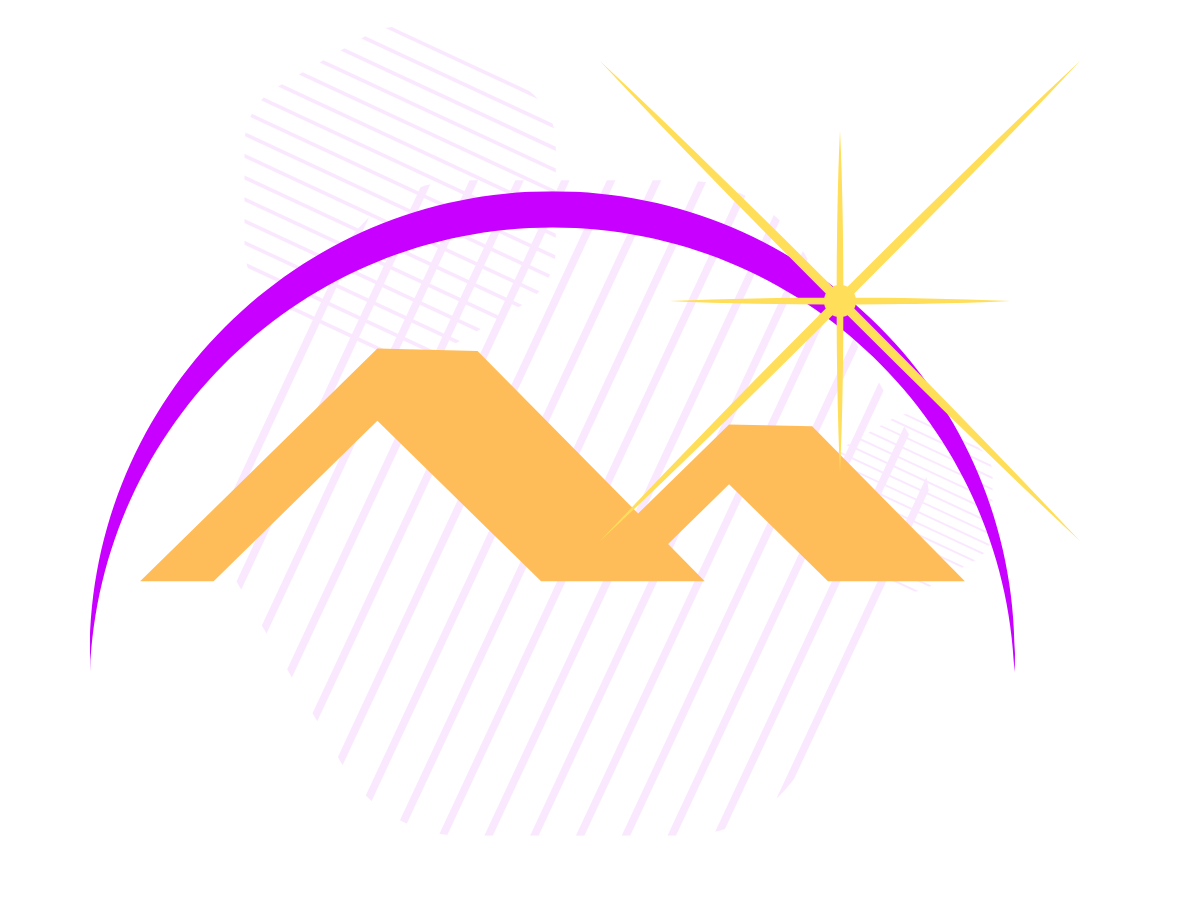
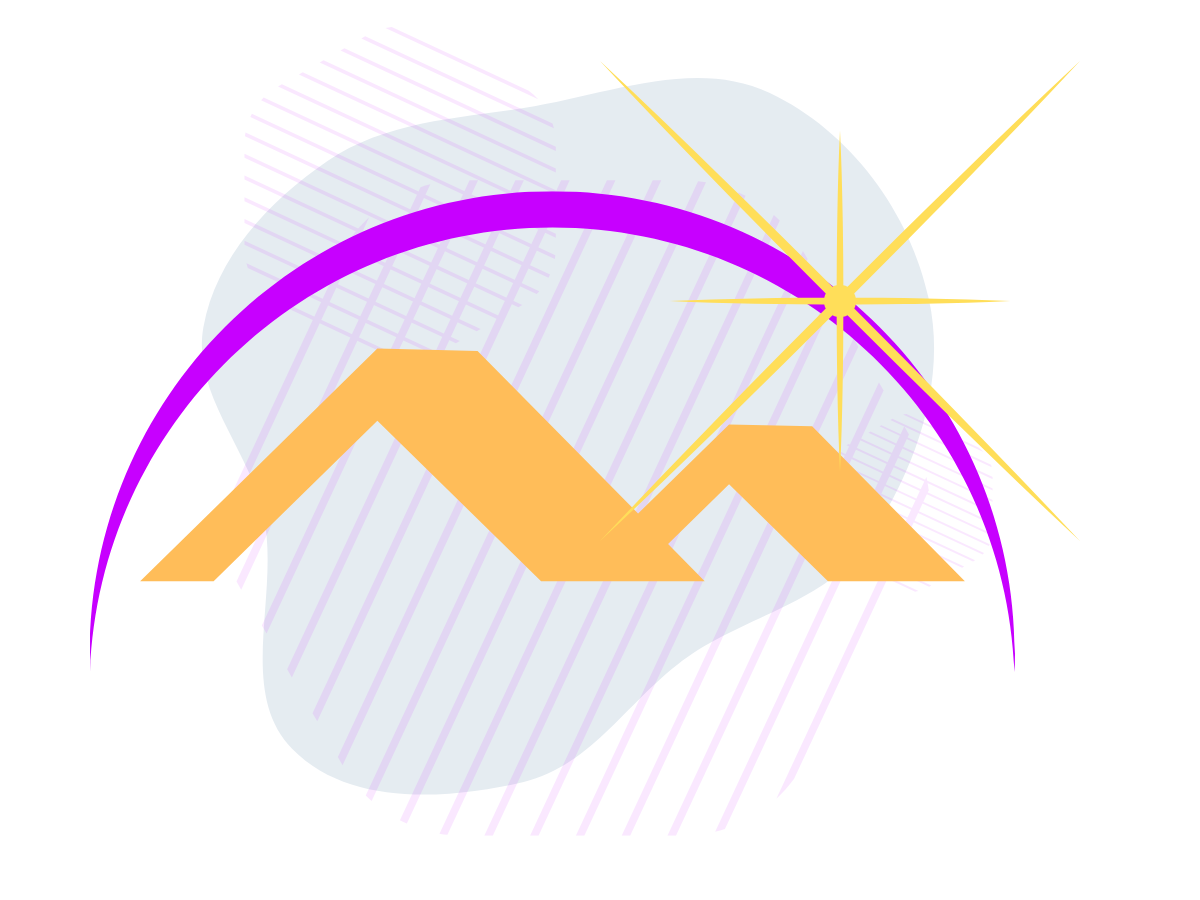
Add background image and new interactive content sections to index view

Changed region(s): [[0.1542, 0.0622, 0.8017, 0.56], [0.2158, 0.4667, 0.7092, 0.9022]]

diff --git a/resources/views/index.blade.php b/resources/views/index.blade.php
@@ -200,13 +200,13 @@
             </div>
         </div>
     </section>
-    <section class="bg-amber-50 dark:bg-amber-800 py-4">
+    <section class="bg-amber-50 dark:bg-amber-800 py-4" style="background-image: url('{{ asset('images/homepage/idrees_banner_transparent.png') }}'); background-size: cover; background-position: left;">
         <div class="w-11/12 lg:w-5/6 mx-auto my-6 md:my-12 px-4 lg:px-0 py-4">
             <h3 class="uppercase tracking-widest font-semibold text-slate-900 dark:text-slate-100">Home Service</h3>
             <h2 class=" text-xl md:text-2xl lg:text-3xl font-medium tracking-wide lg:w-1/2 font-serif my-4 text-gray-800 dark:text-gray-200">Lorem ipsum dolor sit amet consectetur adipisicing elit. Tempore, veritatis!</h2>
             <div class="grid grid-cols-12 gap-4" id="interactive-sections">
-                <div class="col-span-12 md:col-span-3 border flex items-center" id="menu">
-                    <ul class="space-y-2 w-full">
+                <div class="col-span-12 md:col-span-3  flex items-center" id="menu">
+                    <ul class="space-y-6 w-full">
                         <li class="w-full px-6 hover-item roofing-item py-2 font-semibold bg-amber-300 hover:bg-amber-400 transition" data-target="roofing">
                             <a href="#">Roofing</a>
                         </li>
@@ -226,7 +226,7 @@
                 </div>
               
                 <div class="col-span-12 md:col-span-9 relative min-h-96" id="content-area">
-                    <div class="h-full section roofing-section border p-4" style="display: block;">
+                    <div class="h-full section roofing-section  p-4" style="display: block;">
                         <div class="flex flex-col md:flex-row justify-center items-center gap-4  h-full">
                             <p class="w-full md:w-1/3 text-justify text-neutral-950 dark:text-neutral-50">
                               Lorem ipsum dolor sit amet, consectetur adipisicing elit. Praesentium maxime provident nobis unde quas, minima aliquam reprehenderit culpa optio? Quidem officia expedita cupiditate nihil atque? Molestias laboriosam laborum ipsa alias dolor harum eos aliquid cupiditate, officia libero! Molestias, tenetur laborum fugit nemo dolore et iure sunt obcaecati! Suscipit, illum omnis.
@@ -236,7 +236,7 @@
                             </div>
                         </div>
                     </div>
-                    <div class="h-full section flooring-section border p-4 hidden ">
+                    <div class="h-full section flooring-section  p-4 hidden ">
                         <div class="flex flex-col md:flex-row justify-center items-center gap-4  h-full">
                             <p class="w-full md:w-1/3 text-justify text-neutral-950 dark:text-neutral-50">
                               Lorem ipsum dolor sit amet, consectetur adipisicing elit. Praesentium maxime provident nobis unde quas, minima aliquam reprehenderit culpa optio? Quidem officia expedita cupiditate nihil atque? Molestias laboriosam laborum ipsa alias dolor harum eos aliquid cupiditate, officia libero! Molestias, tenetur laborum fugit nemo dolore et iure sunt obcaecati! Suscipit, illum omnis.
@@ -246,7 +246,7 @@
                             </div>
                         </div>
                     </div>
-                    <div class="h-full section hvac-section border p-4 hidden ">
+                    <div class="h-full section hvac-section  p-4 hidden ">
                         <div class="flex flex-col md:flex-row justify-center items-center gap-4  h-full">
                             <p class="w-full md:w-1/3 text-justify text-neutral-950 dark:text-neutral-50">
                               Lorem ipsum dolor sit amet, consectetur adipisicing elit. Praesentium maxime provident nobis unde quas, minima aliquam reprehenderit culpa optio? Quidem officia expedita cupiditate nihil atque? Molestias laboriosam laborum ipsa alias dolor harum eos aliquid cupiditate, officia libero! Molestias, tenetur laborum fugit nemo dolore et iure sunt obcaecati! Suscipit, illum omnis.
@@ -256,7 +256,7 @@
                             </div>
                         </div>
                     </div>
-                    <div class="h-full section plumbing-section border p-4 hidden ">
+                    <div class="h-full section plumbing-section  p-4 hidden ">
                         <div class="flex flex-col md:flex-row justify-center items-center gap-4  h-full">
                             <p class="w-full md:w-1/3 text-justify text-neutral-950 dark:text-neutral-50">
                               Lorem ipsum dolor sit amet, consectetur adipisicing elit. Praesentium maxime provident nobis unde quas, minima aliquam reprehenderit culpa optio? Quidem officia expedita cupiditate nihil atque? Molestias laboriosam laborum ipsa alias dolor harum eos aliquid cupiditate, officia libero! Molestias, tenetur laborum fugit nemo dolore et iure sunt obcaecati! Suscipit, illum omnis.
@@ -266,7 +266,7 @@
                             </div>
                         </div>
                     </div>
-                    <div class="h-full section solar-section border p-4 hidden ">
+                    <div class="h-full section solar-section  p-4 hidden ">
                         <div class="flex flex-col md:flex-row justify-center items-center gap-4  h-full">
                             <p class="w-full md:w-1/3 text-justify text-neutral-950 dark:text-neutral-50">
                               Lorem ipsum dolor sit amet, consectetur adipisicing elit. Praesentium maxime provident nobis unde quas, minima aliquam reprehenderit culpa optio? Quidem officia expedita cupiditate nihil atque? Molestias laboriosam laborum ipsa alias dolor harum eos aliquid cupiditate, officia libero! Molestias, tenetur laborum fugit nemo dolore et iure sunt obcaecati! Suscipit, illum omnis.
@@ -303,7 +303,45 @@
         </div>
 
     </section>
+    <section class="bg-amber-50 dark:bg-amber-800 py-4">
+        <div class="w-11/12 lg:w-5/6 mx-auto my-6 md:my-12 px-4 lg:px-0 py-4 relative">
+            <div class="grid grid-cols-4 md:grid-cols-8 lg:grid-cols-12 gap-4">
+                <div class="col-span-4 rounded shadow-sm hover:-translate-y-2 transition-all duration-300 ease-in-out">
+                    <div class="aspect-[1.67] bg-white">
+                        <img src="{{ asset('images/homepage/1.png') }}" alt="" class="w-full object-cover">
+                    </div>
+                    <div class="h-2 " style="background: linear-gradient(90deg, #6b21a8 0%, #6b21a8 50%, #1d4ed8 50%, #1d4ed8 100%);"></div>
+                    <div class="p-6 space-y-4 h-48 overflow-hidden">
+                        <h3 class="text-lg font-semibold tracking-wider text-slate-600 dark:text-slate-400">Lorem, ipsum dolor.</h3>
+                        <p class="bg-amber-50 dark:bg-amber-800 text-neutral-950 dark:text-neutral-50">Lorem ipsum dolor sit amet consectetur adipisicing elit. Maxime doloribus culpa, aut repellat dolor praesentium odio repellendus est id corporis.</p>
+                    </div>
+                </div>
+                <div class="col-span-4 rounded shadow-sm hover:-translate-y-2 transition-all duration-300 ease-in-out">
+                    <div class="aspect-[1.67] bg-white">
+                        <img src="{{ asset('images/homepage/2.png') }}" alt="" class="w-full object-cover">
+                    </div>
+                    <div class="h-2 " style="background: linear-gradient(90deg, #6b21a8 0%, #6b21a8 50%, #1d4ed8 50%, #1d4ed8 100%);"></div>
+                    <div class="p-6 space-y-4 h-48 overflow-hidden">
+                        <h3 class="text-lg font-semibold tracking-wider text-slate-600 dark:text-slate-400">Lorem, ipsum dolor.</h3>
+                        <p class="bg-amber-50 dark:bg-amber-800 text-neutral-950 dark:text-neutral-50">Lorem ipsum dolor sit amet consectetur adipisicing elit. Maxime doloribus culpa, aut repellat dolor praesentium odio repellendus est id corporis.</p>
+                    </div>
 
+                </div>
+                <div class="col-span-4 rounded shadow-sm hover:-translate-y-2 transition-all duration-300 ease-in-out">
+                    <div class="aspect-[1.67] bg-white">
+                        <img src="{{ asset('images/homepage/3.png') }}" alt="" class="w-full object-cover">
+                    </div>
+                    <div class="h-2 " style="background: linear-gradient(90deg, #6b21a8 0%, #6b21a8 50%, #1d4ed8 50%, #1d4ed8 100%);"></div>
+                    <div class="p-6 space-y-4 h-48 overflow-hidden">
+                        <h3 class="text-lg font-semibold tracking-wider text-slate-600 dark:text-slate-400">Lorem, ipsum dolor.</h3>
+                        <p class="bg-amber-50 dark:bg-amber-800 text-neutral-950 dark:text-neutral-50">Lorem ipsum dolor sit amet consectetur adipisicing elit. Maxime doloribus culpa, aut repellat dolor praesentium odio repellendus est id corporis.</p>
+                    </div>
+                </div>
+            </div>
+            <img src="{{ asset('images/homepage/parcel_1.png') }}" alt="" class="absolute -top-24 rotate-12 right-4 w-32 ">
+            <img src="{{ asset('images/homepage/parcel_2.png') }}" alt="" class="absolute -bottom-12 -rotate-12 left-4 w-32">
+        </div>
+    </section>
     <footer class="min-h-[75dvh] bg-blue-800 ">
         <div class="container mx-auto grid grid-cols-4 md:grid-cols-8 lg:grid-cols-12 gap-4 py-4 border-b border-white p-4">
             <div class="col-span-4">
